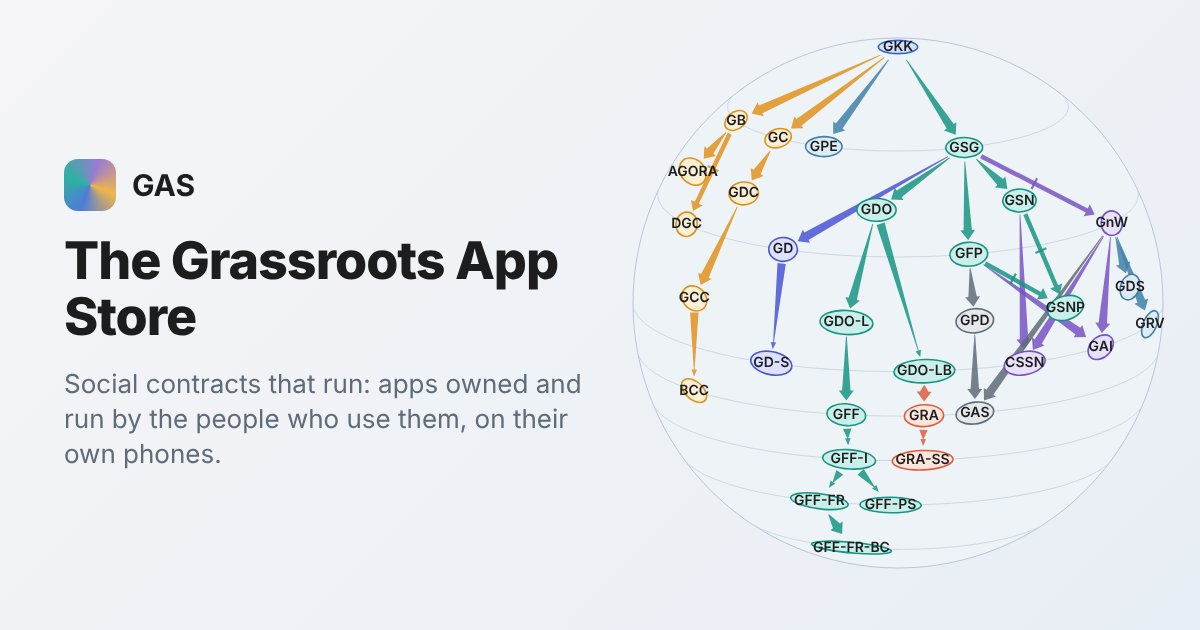
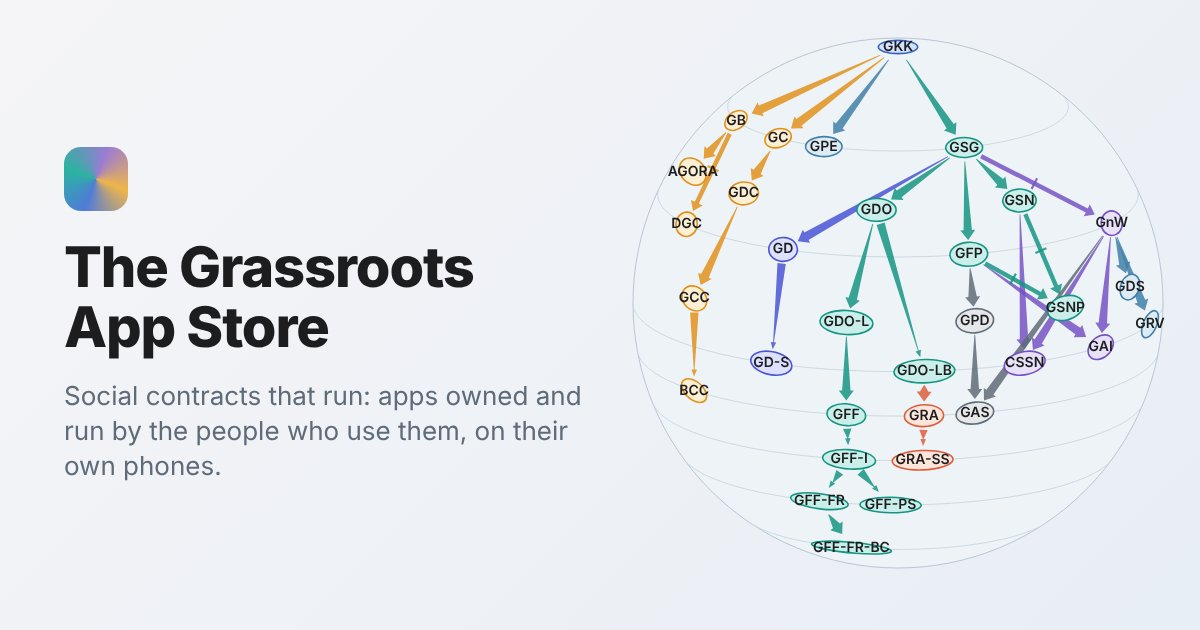
GAS site: the site's title is The Grassroots App Store, GAS dropped from the header, the page titles, the preview tags and the preview picture (Udi, 2026-11-09)
Claude-Session: https://claude.ai/code/session_013FJ39AAgNmyien1kDETZw6

Changed region(s): [[0.0308, 0.6032, 0.4933, 0.754], [0.0308, 0.3619, 0.4625, 0.573], [0.0308, 0.2111, 0.185, 0.3317]]

diff --git a/servers/peoplesweb/web/index.html b/servers/peoplesweb/web/index.html
@@ -5,8 +5,8 @@
 <meta name="viewport" content="width=device-width, initial-scale=1">
 <meta name="description" content="Social contracts that run: apps owned and run by the people who use them, on their own phones.">
 <meta property="og:type" content="website">
-<meta property="og:site_name" content="GAS · the Grassroots App Store">
-<meta property="og:title" content="GAS · the Grassroots App Store">
+<meta property="og:site_name" content="The Grassroots App Store">
+<meta property="og:title" content="The Grassroots App Store">
 <meta property="og:description" content="Social contracts that run: apps owned and run by the people who use them, on their own phones.">
 <meta property="og:url" content="https://peoplesweb.org/">
 <meta property="og:image" content="https://peoplesweb.org/og.jpg">
@@ -15,7 +15,7 @@
 <meta property="og:image:height" content="630">
 <meta property="og:image:alt" content="The grassroots contracts on a globe, beside the name of the Grassroots App Store">
 <meta name="twitter:card" content="summary_large_image">
-<title>GAS · the Grassroots App Store · peoplesweb.org</title>
+<title>The Grassroots App Store</title>
 <link rel="icon" href="/favicon.ico">
 <link rel="preconnect" href="https://fonts.googleapis.com"><link rel="preconnect" href="https://fonts.gstatic.com" crossorigin>
 <link href="https://fonts.googleapis.com/css2?family=Inter:wght@400;500;600;700;800&display=swap" rel="stylesheet">
@@ -170,7 +170,7 @@ table.roles td.r{font-family:var(--mono);white-space:nowrap}
 #pop p{margin:7px 0;font-size:15px;color:#3a3a3c}
 #pop code{font-size:12.5px;background:var(--bg);padding:1px 5px;border-radius:5px}
 #pop .x{float:right;border:none;background:rgba(118,118,128,.12);width:26px;height:26px;border-radius:50%;cursor:pointer;color:var(--mute)}
-@media (max-width:640px){.hin{padding:10px 16px;gap:10px}.logo{font-size:14.5px;white-space:nowrap}.logo .the{display:none}.search input{width:96px}
+@media (max-width:640px){.hin{padding:10px 16px;gap:10px}.logo{font-size:14.5px;white-space:nowrap}.search input{width:96px}
   #tip{max-width:none}
   .app .pill.ghost{display:none}.shelf{grid-template-columns:minmax(0,1fr);padding:6px 16px}.prod .icon{width:96px;height:96px;font-size:48px;border-radius:22px}
   .tog{padding:14px 16px}.tog .minis{display:none}.tog .cnt{margin-left:auto}
@@ -187,7 +187,7 @@ table.roles td.r{font-family:var(--mono);white-space:nowrap}
 </head>
 <body>
 <header><div class="hin">
-  <div class="logo" id="home"><span class="mark"></span>GAS ·<span class="the">&nbsp;the</span>&nbsp;Grassroots App Store</div>
+  <div class="logo" id="home"><span class="mark"></span>The Grassroots App Store</div>
   <div class="search"><svg width="14" height="14" viewBox="0 0 24 24"><circle cx="10" cy="10" r="7" stroke="#000" stroke-width="2.4" fill="none"/><path d="M15.5 15.5L21 21" stroke="#000" stroke-width="2.4" stroke-linecap="round"/></svg><input id="q" placeholder="Search" autocomplete="off"></div>
 </div></header>
 <main>

diff --git a/servers/peoplesweb/web/how.html b/servers/peoplesweb/web/how.html
@@ -5,8 +5,8 @@
 <meta name="viewport" content="width=device-width, initial-scale=1">
 <meta name="description" content="Social contracts that run: apps owned and run by the people who use them, on their own phones.">
 <meta property="og:type" content="website">
-<meta property="og:site_name" content="GAS · the Grassroots App Store">
-<meta property="og:title" content="How it works · GAS, the Grassroots App Store">
+<meta property="og:site_name" content="The Grassroots App Store">
+<meta property="og:title" content="How it works · The Grassroots App Store">
 <meta property="og:description" content="Social contracts that run: apps owned and run by the people who use them, on their own phones.">
 <meta property="og:url" content="https://peoplesweb.org/how.html">
 <meta property="og:image" content="https://peoplesweb.org/og.jpg">
@@ -15,7 +15,7 @@
 <meta property="og:image:height" content="630">
 <meta property="og:image:alt" content="The grassroots contracts on a globe, beside the name of the Grassroots App Store">
 <meta name="twitter:card" content="summary_large_image">
-<title>How it works · GAS, the Grassroots App Store</title>
+<title>How it works · The Grassroots App Store</title>
 <link rel="icon" href="/favicon.ico">
 <link rel="preconnect" href="https://fonts.googleapis.com"><link rel="preconnect" href="https://fonts.gstatic.com" crossorigin>
 <link href="https://fonts.googleapis.com/css2?family=Inter:wght@400;500;600;700;800&display=swap" rel="stylesheet">
@@ -145,7 +145,7 @@ figcaption{font-size:14px;color:var(--mute);margin-top:6px;text-align:center;min
 </head>
 <body>
 <header><div class="hin">
-  <a class="logo" href="./"><span class="mark"></span>GAS · the Grassroots App Store</a>
+  <a class="logo" href="./"><span class="mark"></span>The Grassroots App Store</a>
   <a class="back" href="./">All contracts</a>
 </div></header>
 <main>

diff --git a/servers/peoplesweb/web/app.html b/servers/peoplesweb/web/app.html
@@ -5,8 +5,8 @@
 <meta name="viewport" content="width=device-width, initial-scale=1">
 <meta name="description" content="Social contracts that run: apps owned and run by the people who use them, on their own phones.">
 <meta property="og:type" content="website">
-<meta property="og:site_name" content="GAS · the Grassroots App Store">
-<meta property="og:title" content="A live app · GAS, the Grassroots App Store">
+<meta property="og:site_name" content="The Grassroots App Store">
+<meta property="og:title" content="A live app · The Grassroots App Store">
 <meta property="og:description" content="Social contracts that run: apps owned and run by the people who use them, on their own phones.">
 <meta property="og:url" content="https://peoplesweb.org/app.html">
 <meta property="og:image" content="https://peoplesweb.org/og.jpg">
@@ -15,7 +15,7 @@
 <meta property="og:image:height" content="630">
 <meta property="og:image:alt" content="The grassroots contracts on a globe, beside the name of the Grassroots App Store">
 <meta name="twitter:card" content="summary_large_image">
-<title>GAS app</title>
+<title>A live app · The Grassroots App Store</title>
 <link rel="icon" href="/favicon.ico">
 <link rel="preconnect" href="https://fonts.googleapis.com"><link rel="preconnect" href="https://fonts.gstatic.com" crossorigin>
 <link href="https://fonts.googleapis.com/css2?family=Inter:wght@400;500;600;700;800&display=swap" rel="stylesheet">

diff --git a/servers/peoplesweb/README.md b/servers/peoplesweb/README.md
@@ -1,4 +1,4 @@
-# GAS, the Grassroots App Store, at peoplesweb.org
+# The Grassroots App Store (GAS), at peoplesweb.org
 
 A site that shows the grassroots contracts of this repository, how the cascade turns each into code, and a live app for each compiled contract: four persons, Alice, Bob, Carol and Dave, each running the contract's canonical platform as an agent of madGLP in an isolate of its own, their messages carried between the isolates as the simulation's network carries them.  There are no GAS phones: a person runs a contract on their phone through the Grassroots Super-App (the GSG paper), and this site is the store's window and its live demonstration.
 
@@ -26,7 +26,7 @@ Then open http://localhost:8080/.  A contract's world starts on its first visit,
   Both directories are generated and gitignored, and the script rebuilds them whole.  A contract recorded by `cascade.sh` appears on its next run; the hourly sweep (`deploy/sweep.sh`) pulls, rebuilds and republishes.
 - `tools/papers_sync.py` keeps the papers current (Udi, 2026-11-08): for each paper of `tools/papers.py` it pulls the paper's repository, the one Overleaf syncs with, builds the PDF where the source changed, and records the date of the source's last change and, for a paper on arXiv, the date of its latest arXiv version.  A paper on arXiv whose source is ahead of it is cited as arXiv followed by Updated, the PDF built from the source; a paper not on arXiv by its PDF, with the date.  The sweep runs it before `build.py`, into `/var/lib/glp/papers` (`PAPERS_DIR`); without that directory `build.py` serves the PDFs of `web/papers`, built by hand.
 - `bin/server.dart` serves `build/www` and the API the app page calls, `/api/<name>/{state,act,day,reset}`.  The server is every person: it keeps what each person's dispatcher draws and injects the person's grants.  Each person of a world is an agent of madGLP in its own Dart isolate, told `me(Person)` first, with its own heap and key pair; a message the person's platform sends goes out by `send_to_net`, a cold call to the person it names, and the server carries it to that person's isolate.  With `WORLDS=heap` a world is instead the four persons in one heap (`live_ui/1`, the agent told `world` first), their networks joined in GLP.
-- `web/` holds the pages: `index.html` (the contracts on a navigable globe --- GKK at the pole, a ring per depth, the fullest on the equator, a widening arrow extends, a narrowing one restricts, a barred one of one width amends, a dashed one implements and a dotted one instantiates, each relation read from the first line of the contract's box, and a key to the arrows in the corner; a balloon per contract with its paper --- and the shelves, every contract by family, and the contract pages), `app.html` (the live app of one contract, `app.html?c=<name>`), `how.html` (an explainer for general readers), `og.jpg` (the picture a link to the site shows in a chat or a feed, named by the pages' og: tags: the globe as it stood on 2026-11-09 beside the site's name, made by hand, to be made again when the globe changes much), and `about.json` (the site's one line, icon and family for each contract).
+- `web/` holds the pages: `index.html` (the contracts on a navigable globe --- GKK at the pole, a ring per depth, the fullest on the equator, a widening arrow extends, a narrowing one restricts, a barred one of one width amends, a dashed one implements and a dotted one instantiates, each relation read from the first line of the contract's box, and a key to the arrows in the corner; a balloon per contract with its paper --- and the shelves, every contract by family, and the contract pages), `app.html` (the live app of one contract, `app.html?c=<name>`), `how.html` (an explainer for general readers), `og.jpg` (the picture a link to the site shows in a chat or a feed, named by the pages' og: tags: the globe as it stood on 2026-11-09 beside the site's name, The Grassroots App Store, made by hand, to be made again when the globe changes much), and `about.json` (the site's one line, icon and family for each contract).
 - `deploy/` holds what the server at peoplesweb.org runs: `peoplesweb.service` (the live server), `Caddyfile` (Caddy serves the static site from `/var/www/peoplesweb.org` and proxies `/api`), and `sweep.sh` with `peoplesweb-sweep.{service,timer}`, the hourly pull-rebuild-republish.
 
 ## Environment
